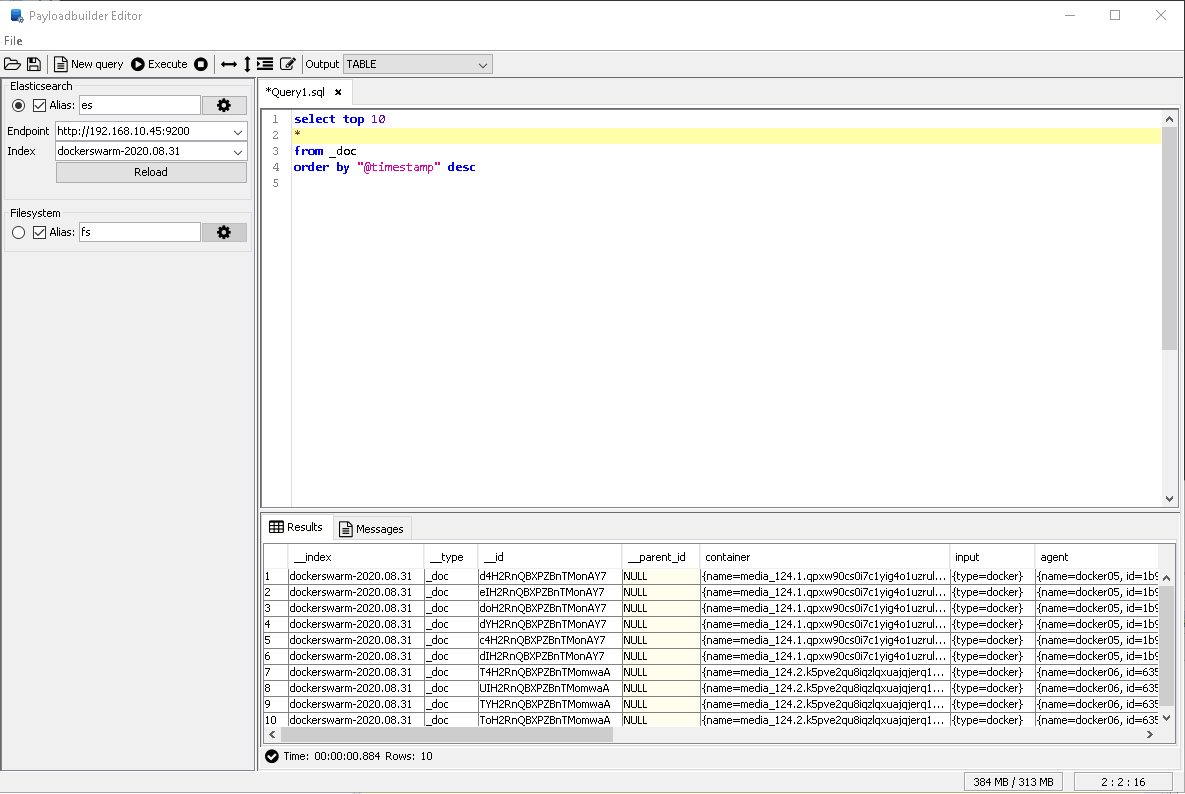
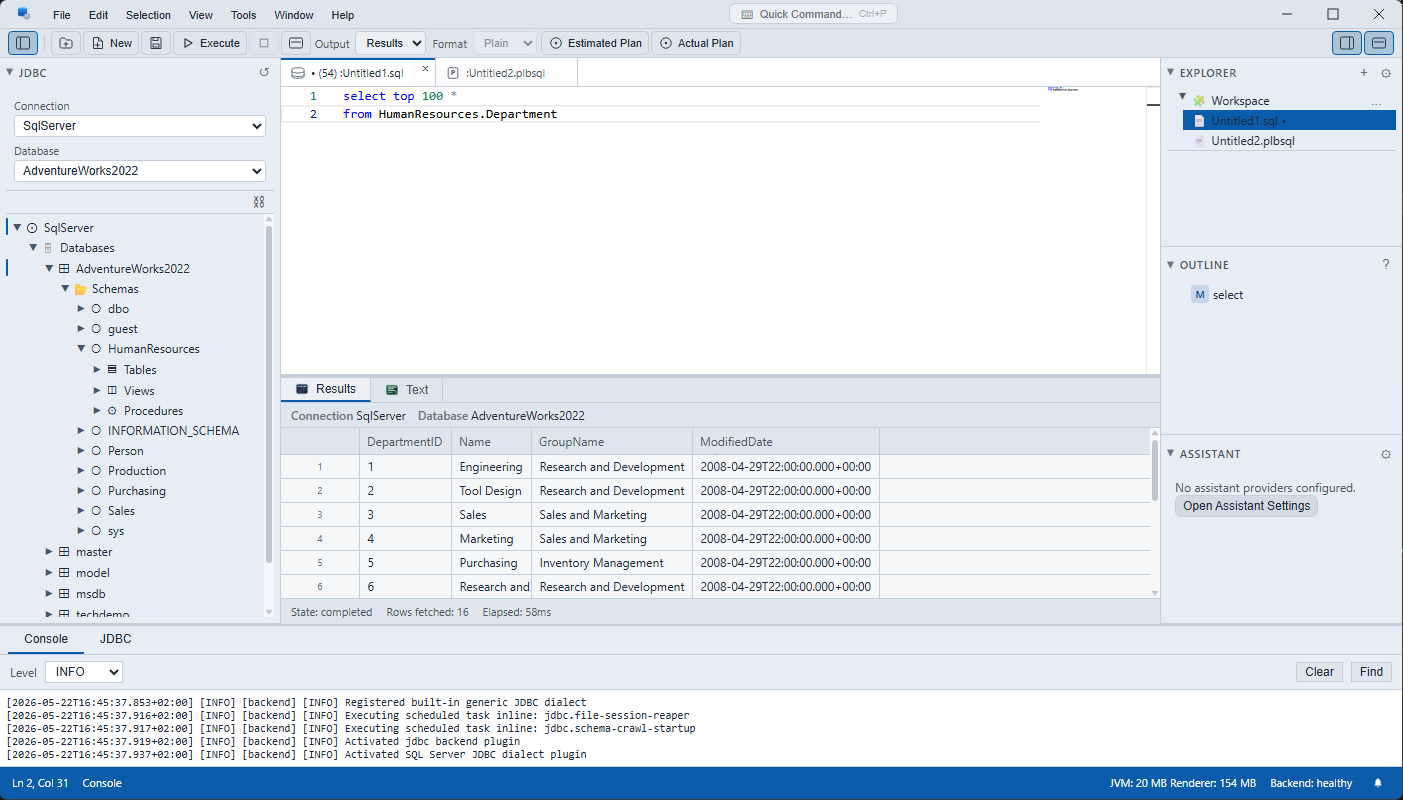
chore: Fix readme to point to new Queryeer Desktop project

diff --git a/README.md b/README.md
@@ -94,12 +94,12 @@ Simple query using multiple catalogs:
         }
 ```
 
-### Queryeer IDE
+### Queryeer Desktop IDE
 
-Standalone Query IDE written in Swing
+Payloadbuilder is bundled inside Queryeer Desktop IDE
 
-[Queryeer](https://github.com/kuseman/Queryeer)
-![Queryeer](/documentation/queryeer.png?raw=true "Queryeer")
+[Queryeer Desktop](https://github.com/kuseman/queryeer-desktop)
+![Queryeer Desktop](/documentation/queryeer.png?raw=true "Queryeer Desktop")
 
 ## Roadmap
 